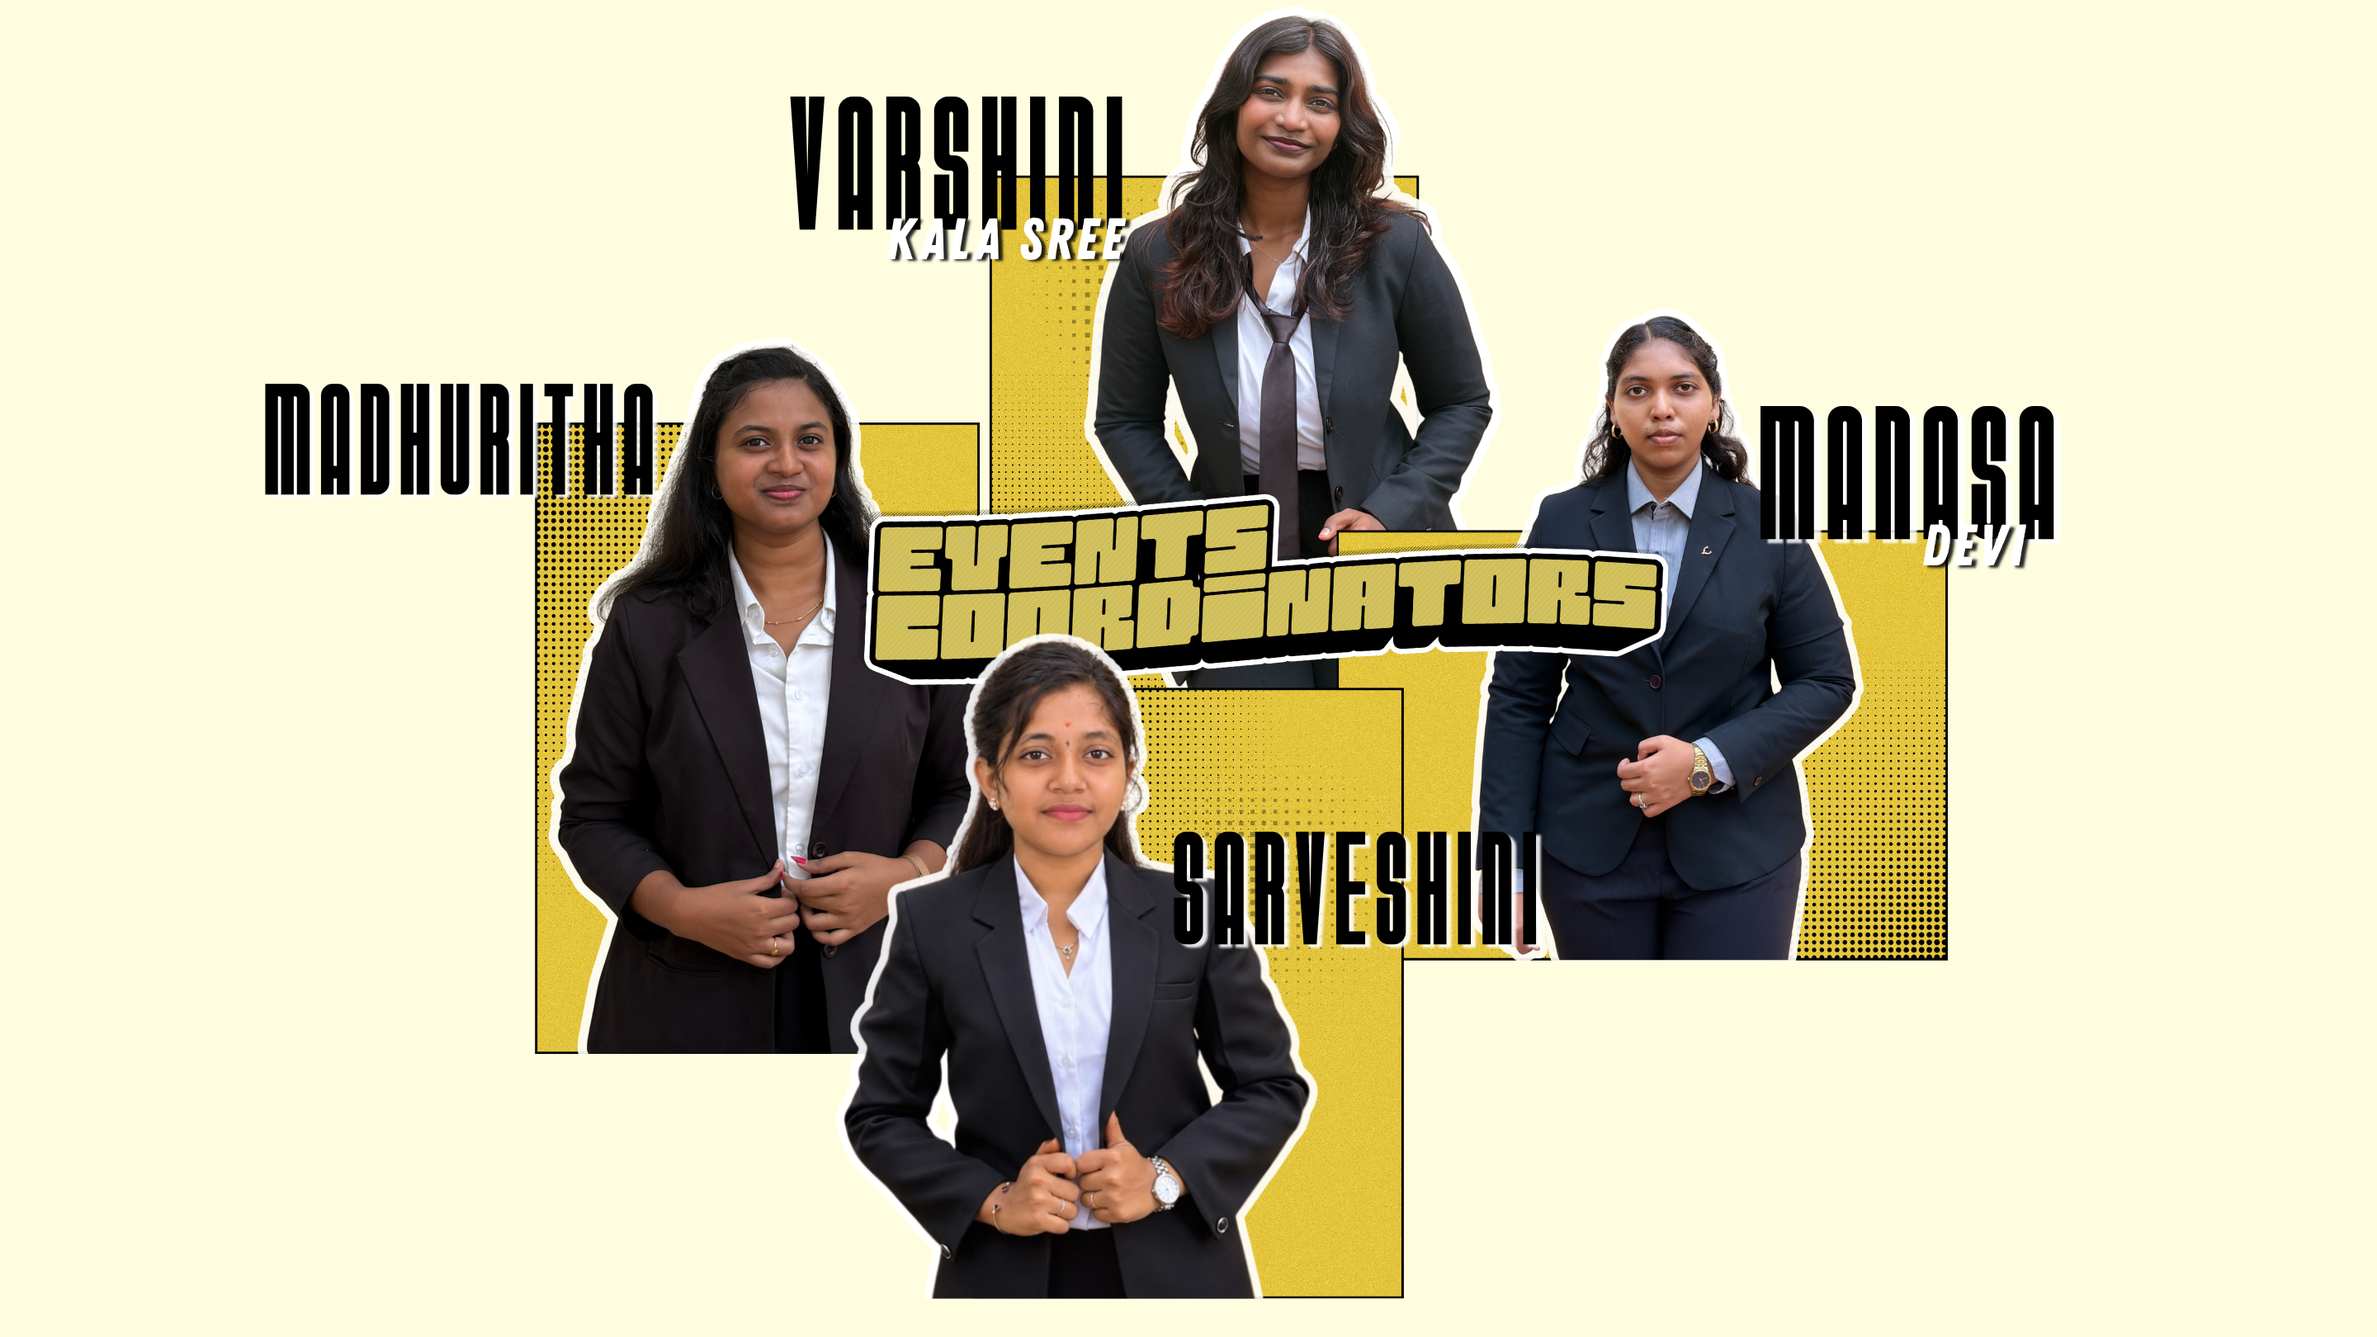
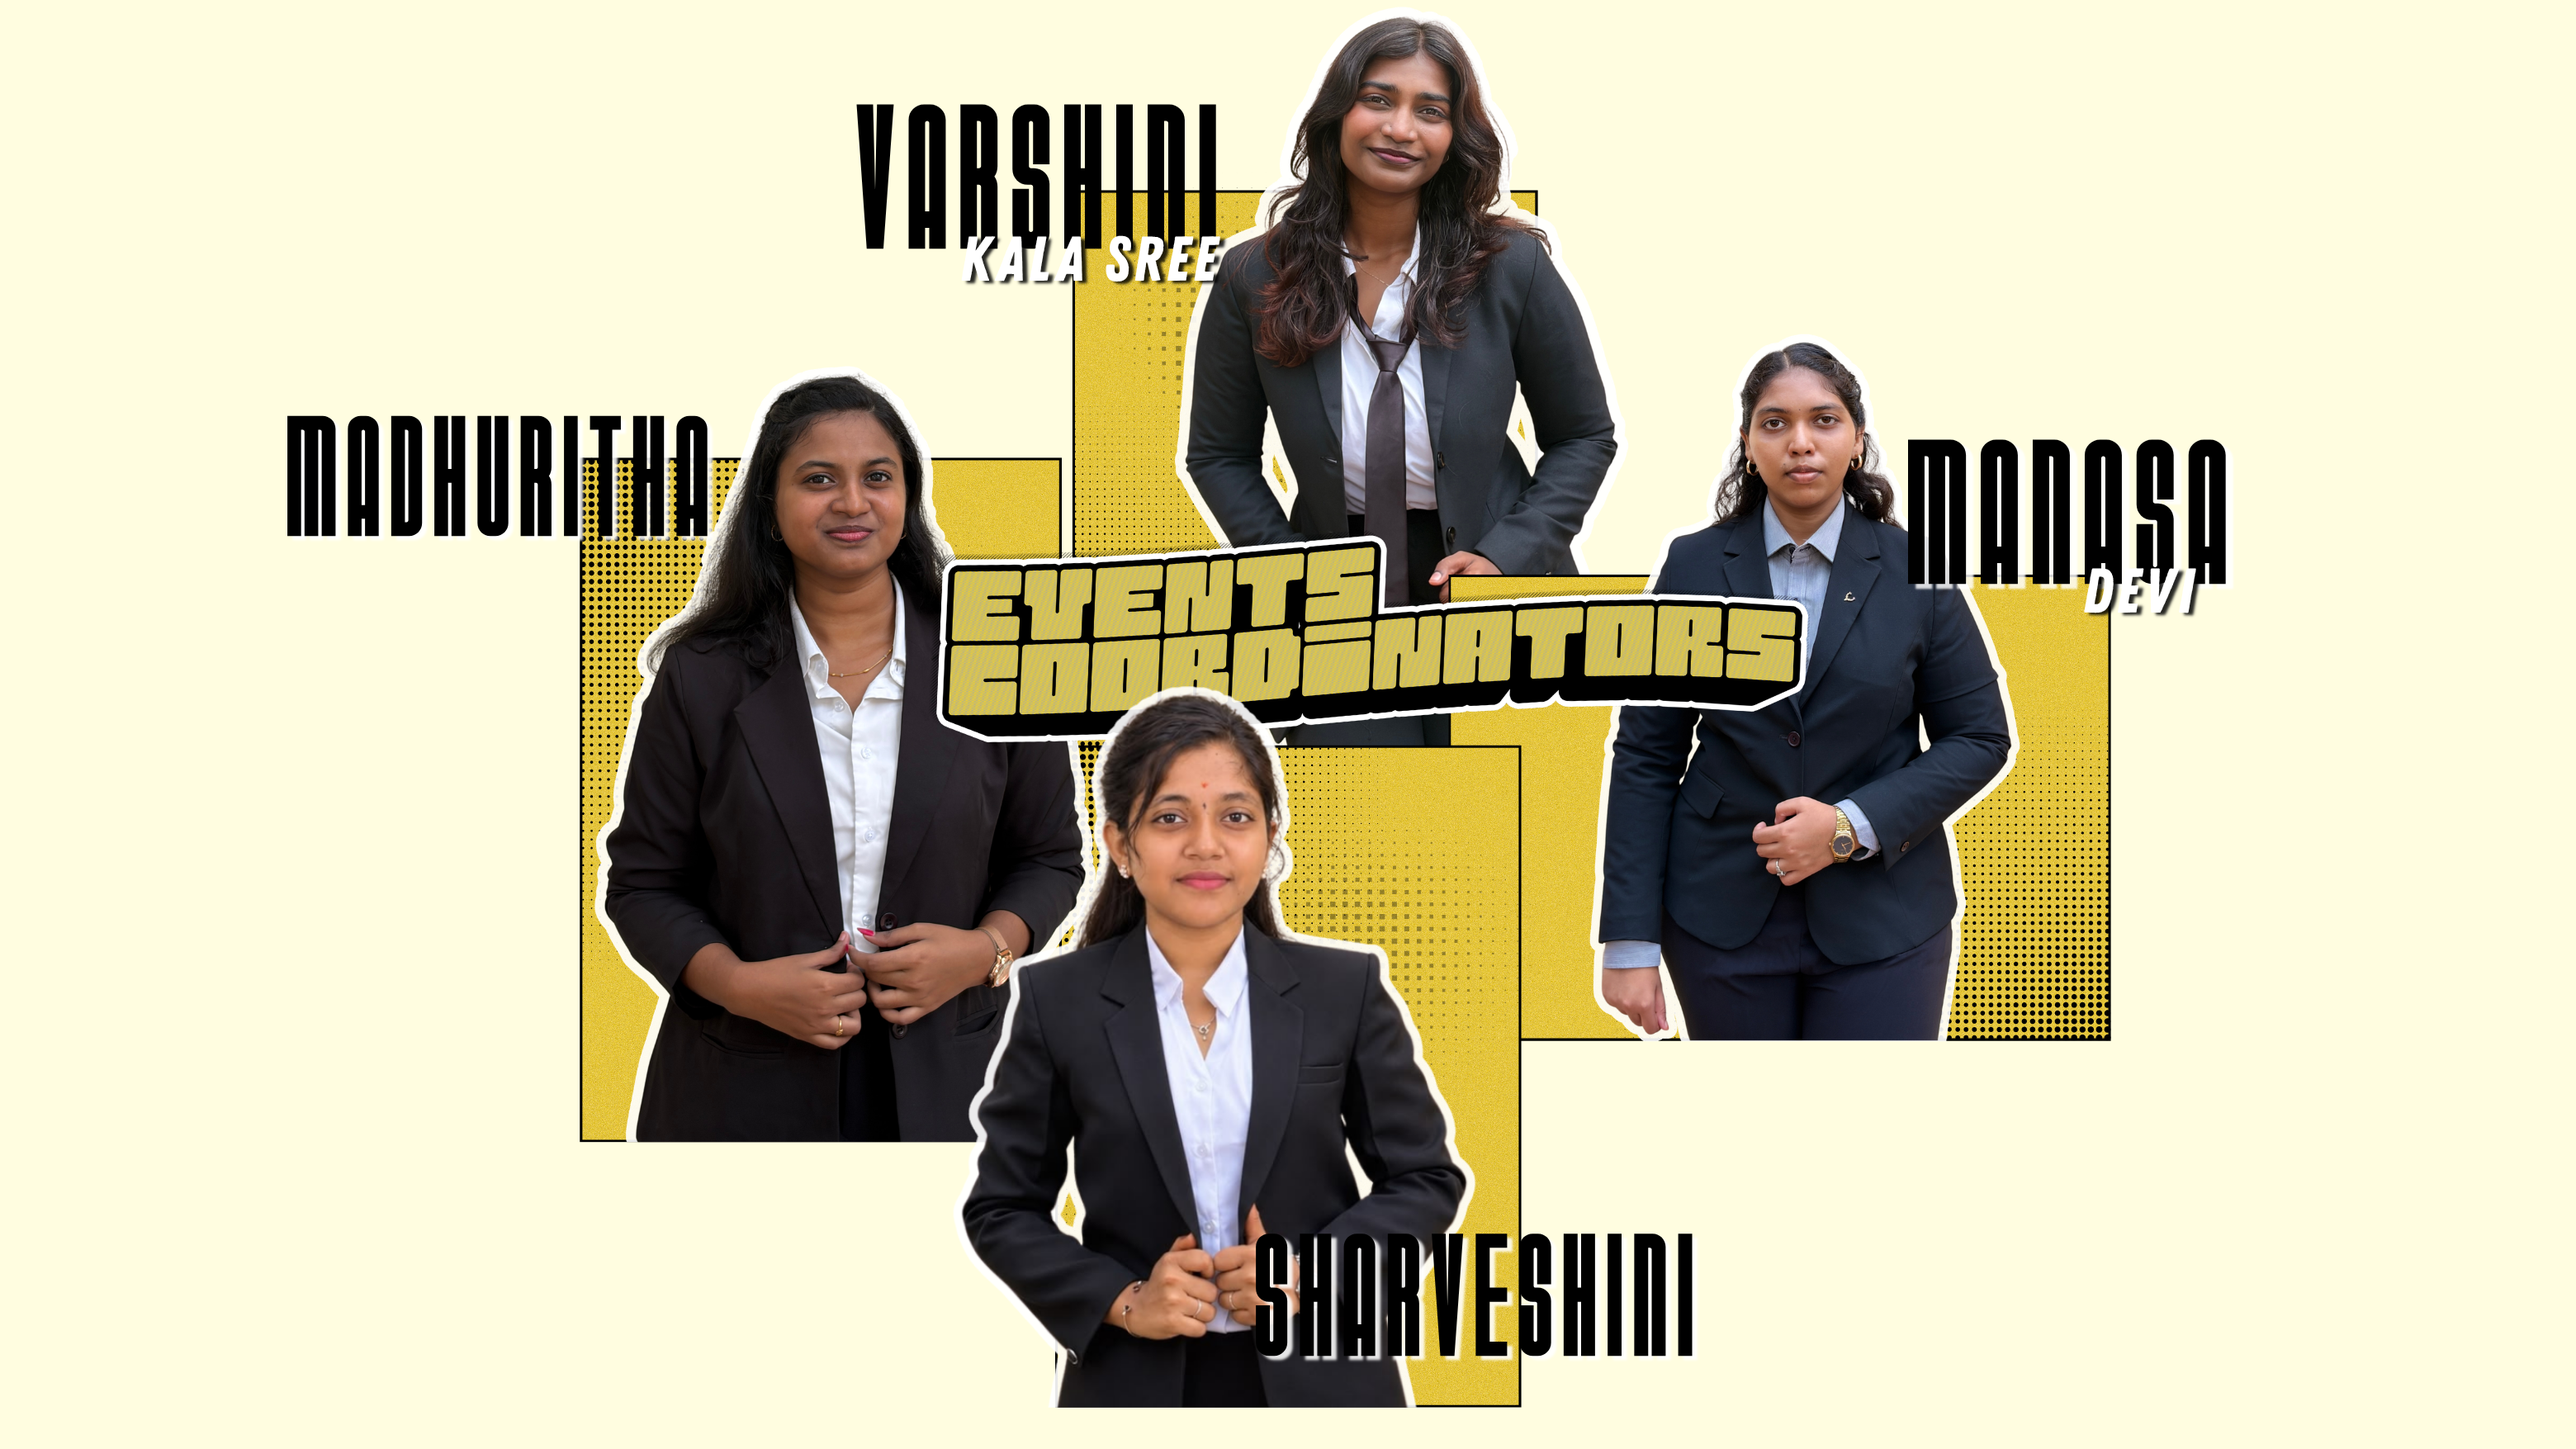
core committee changes

diff --git a/src/App.tsx b/src/App.tsx
@@ -1,6 +1,3 @@
-// 
-
-
 import SiteHeader from "./components/SiteHeader/SiteHeader";
 import GoldenSealReveal from "./components/GoldenSealReveal/GoldenSealReveal";
 import Hero from "./components/Hero/Hero";
@@ -15,6 +12,7 @@ import EventSection from "./components/sections/EventSection";
 import GallerySection from "./components/sections/GallerySection";
 import WaveMesh from "./components/WaveMesh/WaveMesh";
 import styles from "./App.module.css";
+import CoreTeam from "./components/CoreTeam/CoreTeam";
 import ScheduleSection from "./components/ScheduleSection/ScheduleSection";
 export default function App() {
   return (
@@ -44,7 +42,7 @@ export default function App() {
 
           <div className={styles.contentInner}>
             <AboutSection />
-            <ProceedingsMessages />
+            {/* <ProceedingsMessages /> */}
             <EventSection />
             <TechnicalPartners />
             <ScheduleSection />
